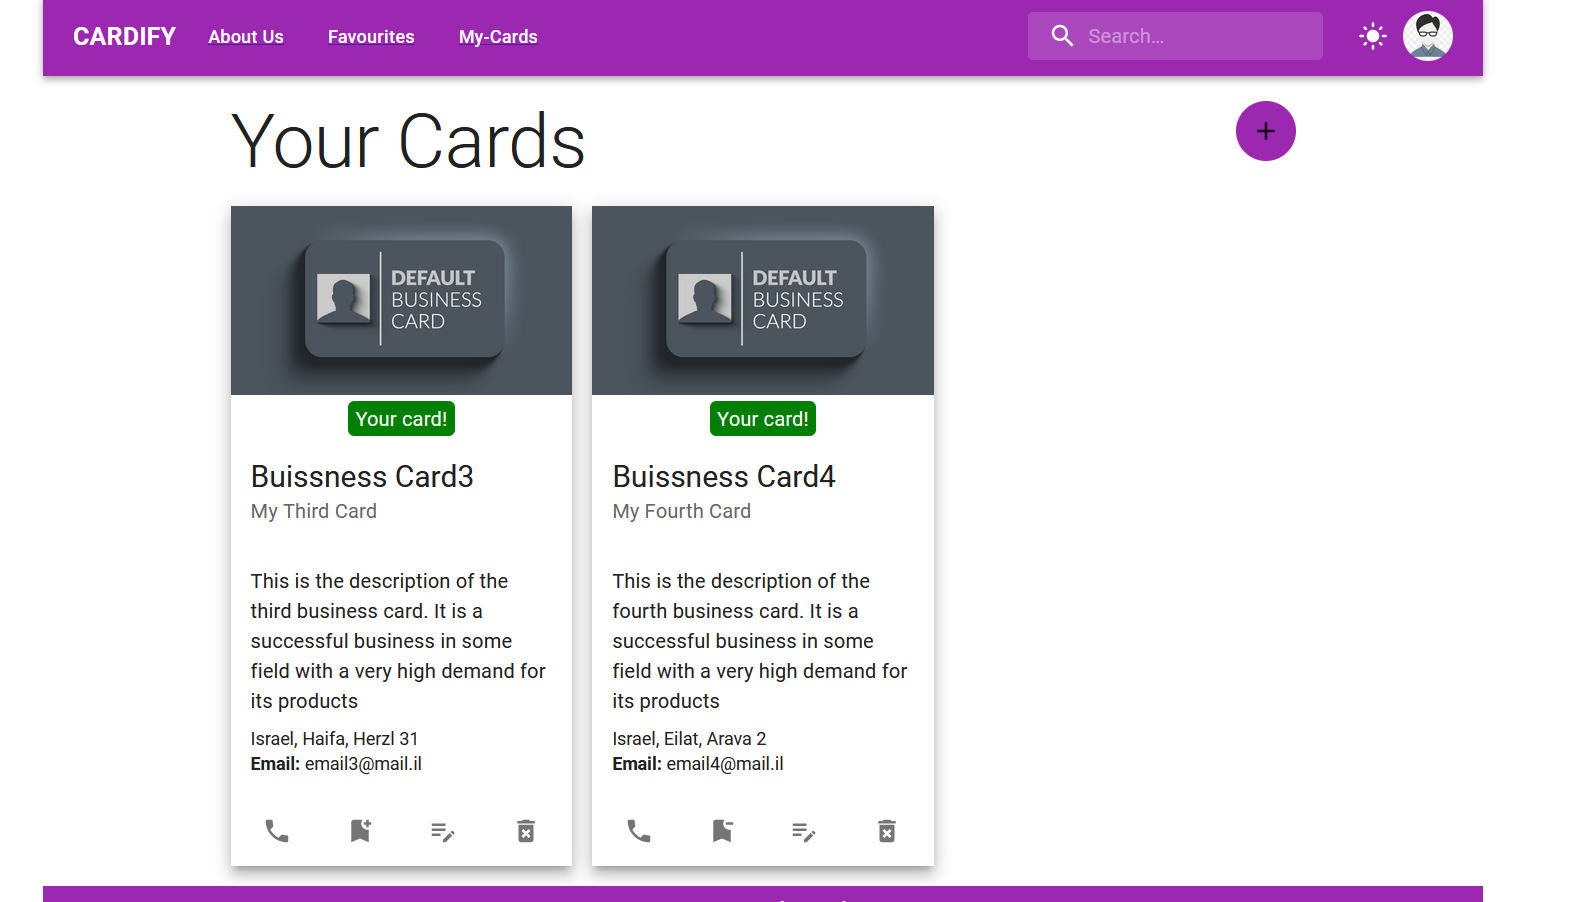
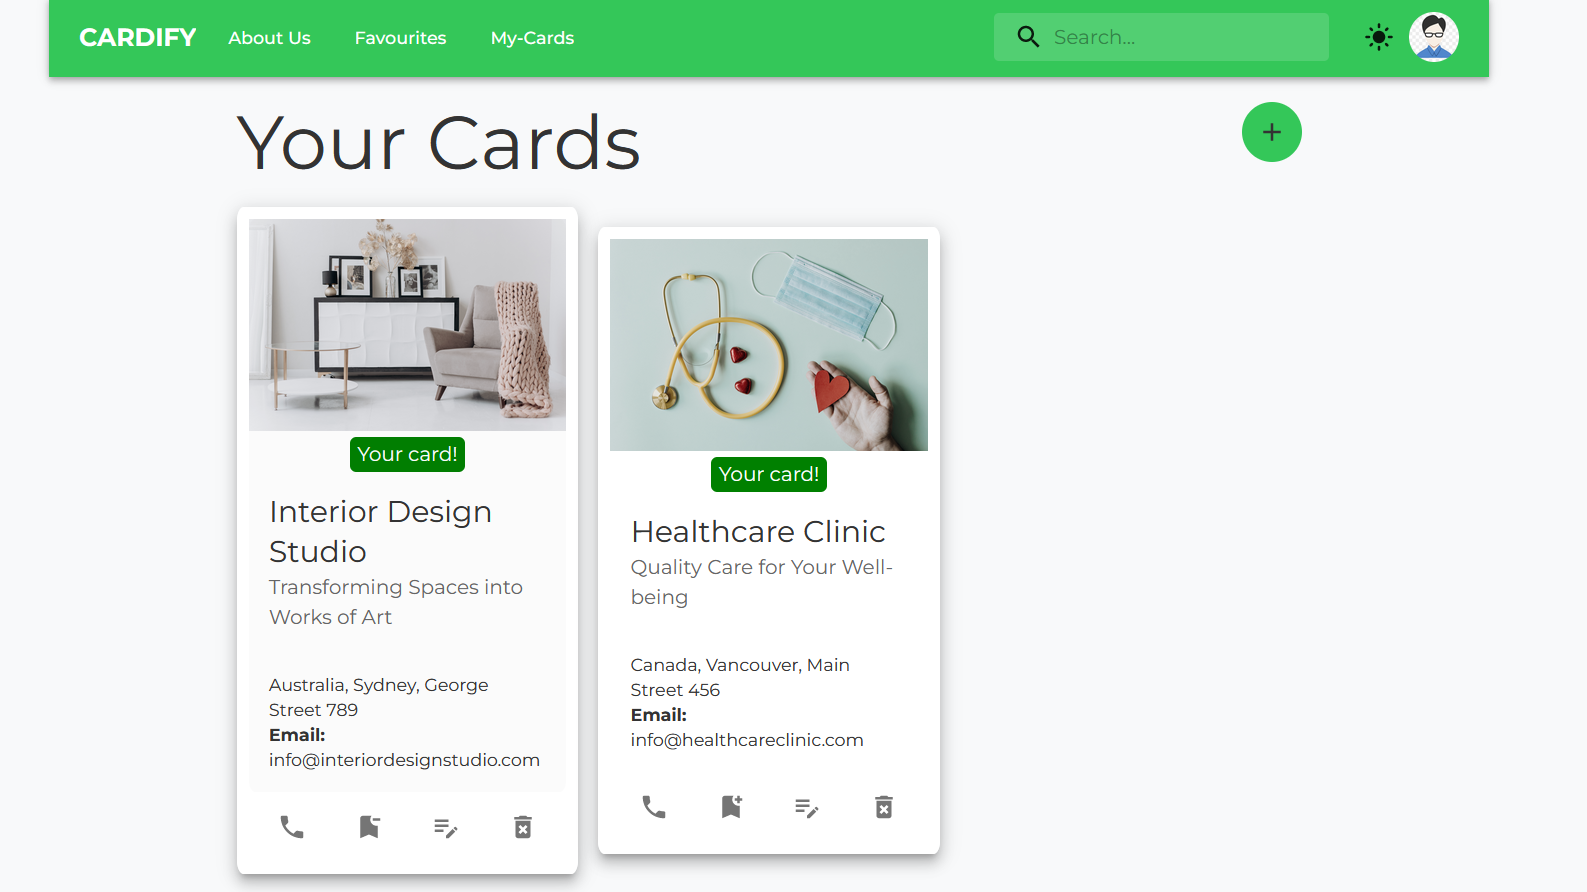
more styling

Changed region(s): [[0.0, 0.1211, 0.9669, 1.0], [0.0, 0.0, 0.9669, 0.1816]]

diff --git a/src/pages/AboutPage.jsx b/src/pages/AboutPage.jsx
@@ -15,7 +15,7 @@ const AboutPage = () => {
 
             <Grid container spacing={4} mt={4}>
                 <Grid item xs={12}>
-                    <Card sx={{ backgroundColor: theme.palette.info.main, padding: "1rem" }}>
+                    <Card sx={{ backgroundColor: theme.palette.primary, padding: "1rem" }}>
                         <Grid container alignItems={'center'}>
                             <Grid item xs={12} md={6}>
                                 <CardContent>
@@ -43,7 +43,7 @@ const AboutPage = () => {
                 </Grid>
 
                 <Grid item xs={12}>
-                    <Card sx={{ backgroundColor: theme.palette.info.main, padding: "1rem" }}>
+                    <Card sx={{ backgroundColor: theme.palette.primary, padding: "1rem" }}>
                         <Grid container alignItems={'center'}>
                             <Grid item xs={12} md={6}>
                                 <CardMedia
@@ -71,7 +71,7 @@ const AboutPage = () => {
                 </Grid>
 
                 <Grid item xs={12}>
-                    <Card sx={{ backgroundColor: theme.palette.info.main, padding: "1rem" }}>
+                    <Card sx={{ backgroundColor: theme.palette.primary, padding: "1rem" }}>
                         <Grid container alignItems={'center'}>
                             <Grid item xs={12} md={6}>
                                 <CardContent>
@@ -98,7 +98,7 @@ const AboutPage = () => {
                     </Card>
                 </Grid>
                 <Grid item xs={12}>
-                    <Card sx={{ backgroundColor: theme.palette.info.main, padding: "1rem" }}>
+                    <Card sx={{ backgroundColor: theme.palette.primary, padding: "1rem" }}>
                         <Grid container alignItems={'center'}>
                             <Grid item xs={12} md={6}>
                                 <CardMedia

diff --git a/src/components/BusinessCardComp.jsx b/src/components/BusinessCardComp.jsx
@@ -125,7 +125,7 @@ const BusinessCardComp = ({ cardFromParent, onUnMark, onDelete }) => {
                     />
                     <CardContent>
 
-                        <Typography variant="body1" sx={{ mb: 1 }}>{card.description}</Typography>
+                        {/* <Typography variant="body1" sx={{ mb: 1 }}>{card.description}</Typography> */}
                         <Typography variant="body2">
                             {card.country}, {card.city}, {card.street} {card.houseNumber}
                         </Typography>

diff --git a/public/index.html b/public/index.html
@@ -5,6 +5,9 @@
   <meta charset="utf-8" />
   <link rel="icon" href="%PUBLIC_URL%/favicon.ico" />
   <meta name="viewport" content="width=device-width, initial-scale=1" />
+  <!-- Import google fonts -->
+  <link rel="stylesheet"
+    href="https://fonts.googleapis.com/css?family=Montserrat:400,500,700|Roboto:400,500&display=swap" />
   <meta name="theme-color" content="#000000" />
   <meta name="description" content="Web site created using create-react-app" />
   <link rel="apple-touch-icon" href="%PUBLIC_URL%/logo192.png" />

diff --git a/src/components/DialogPartial.jsx b/src/components/DialogPartial.jsx
@@ -15,7 +15,7 @@ const DialogPartial = ({ card, likes }) => {
                     </Typography>
                 )}
                 {card.description && (
-                    <DialogContentText>{card.description}</DialogContentText>
+                    <DialogContentText style={{ marginBottom: "0.5rem" }}>{card.description}</DialogContentText>
                 )}
                 {card.country && card.city && card.street && card.houseNumber && (
                     <DialogContentText>

diff --git a/src/App.jsx b/src/App.jsx
@@ -34,6 +34,13 @@ const light = {
       primary: '#333333',
     },
   },
+  typography: {
+    fontFamily: [
+      'Montserrat',
+      'Roboto',
+      'sans-serif',
+    ].join(','),
+  },
 };
 
 // Define dark theme
@@ -52,6 +59,13 @@ const dark = {
     text: {
       primary: '#ffffff',
     },
+  },
+  typography: {
+    fontFamily: [
+      'Montserrat',
+      'Roboto',
+      'sans-serif',
+    ].join(','),
   },
 };
 

diff --git a/src/pages/HomePage.jsx b/src/pages/HomePage.jsx
@@ -58,7 +58,7 @@ const HomePage = () => {
 
     return (
         <Fragment>
-            <Container maxWidth="sm" sx={{ mt: 2 }}>
+            <Container maxWidth="md" sx={{ mt: 2 }}>
                 <Typography component="h1" variant="h2" align="center" gutterBottom>
                     Cardify
                 </Typography>
